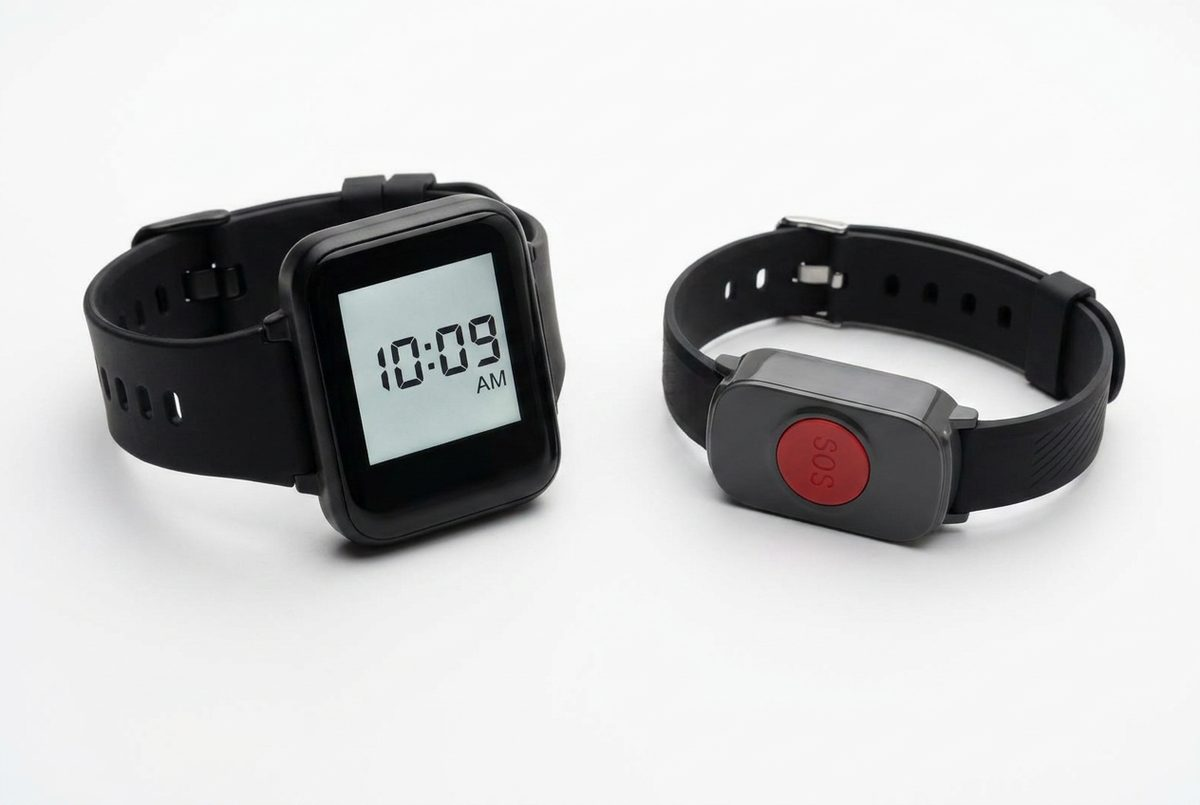
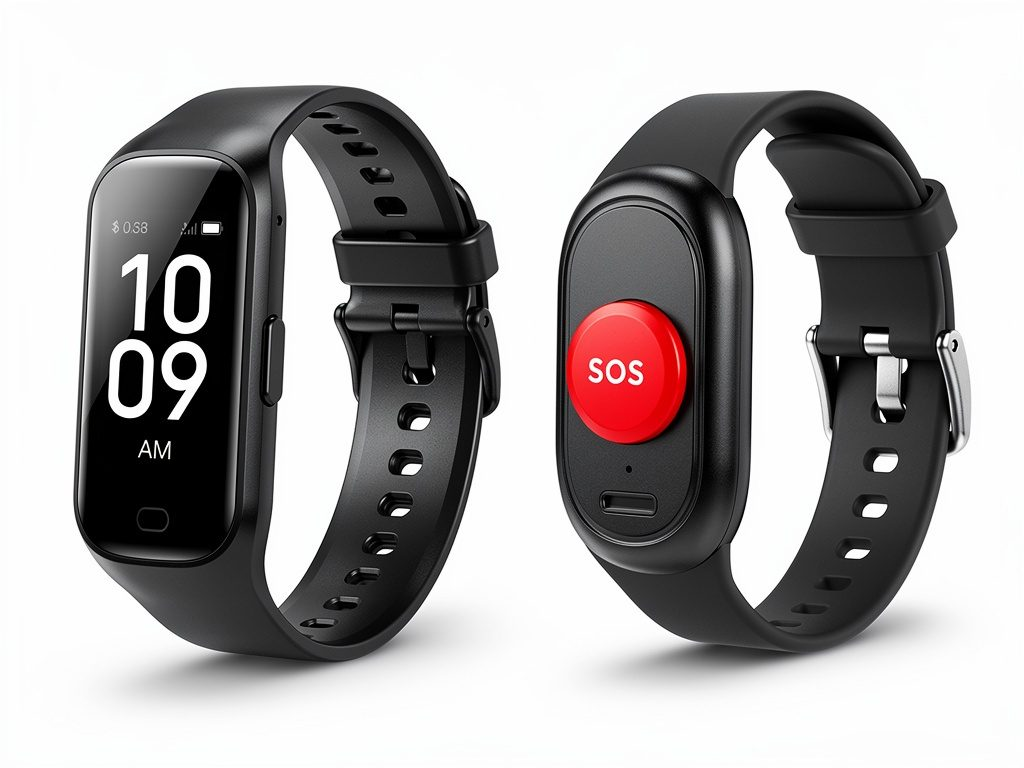
fix(landing+blog): email ecura, foto confronto, IVA 4% e contributo INPS
- Sostituita [email redacted] con [email redacted] in landing page e tutti i blog (14 file)
- ecura-vs-seremy.jpg: schermo SiDLY ora verticale/stretto (portrait) come da dispositivo reale
- Nota IVA sotto prezzi: aggiunto box agevolazioni con spiegazione IVA 4% dispositivo medico,
  detrazione 19% TUIR, e contributo INPS (disabili 100%, legge 104, ISEE <6.000€,
  verbale disabilità grave, previa approvazione INPS)
- FAQ detraibilità aggiornata con tutte e tre le agevolazioni

diff --git a/public/index.html b/public/index.html
@@ -134,7 +134,7 @@
         {
           "@type": "ContactPoint",
           "telephone": "[phone redacted]",
-          "email": "[email redacted]",
+          "email": "[email redacted]",
           "contactType": "customer service",
           "availableLanguage": "Italian",
           "hoursAvailable": {
@@ -404,7 +404,7 @@
           "name": "Il bracciale eCura è detraibile fiscalmente?",
           "acceptedAnswer": {
             "@type": "Answer",
-            "text": "Sì. Essendo un dispositivo medico certificato Classe IIA ai sensi del Regolamento MDR 2017/745, è detraibile al 19% come spesa sanitaria (art. 15 comma 1 lett. c) TUIR). Sono disponibili anche rimborsi INPS per le famiglie con requisiti di reddito."
+            "text": "Sì. Essendo un dispositivo medico certificato Classe IIA (MDR 2017/745), eCura beneficia di tre agevolazioni: (1) IVA al 4% invece del 22%, applicabile perché è un dispositivo medico certificato (DPR 633/72, Tabella A, Parte II, n. 30); (2) detrazione IRPEF al 19% come spesa sanitaria (art. 15, comma 1, lett. c del TUIR); (3) contributo INPS per disabili con invalidità 100%, riconoscimento Legge 104, ISEE inferiore a €6.000 e verbale di disabilità grave, previa approvazione INPS e disponibilità del fondo."
           }
         },
         {
@@ -1178,6 +1178,19 @@
                                         <small>Tutti gli importi sono al netto dell'IVA 22% o 4% (per disabili 100% con legge 104)</small>
                                     </div>
                                 </div>
+                                <div class="row mt-3">
+                                    <div class="col-md-10 mx-auto">
+                                        <div class="p-3 rounded" style="background:rgba(6,141,134,0.10);border:1px solid rgba(6,141,134,0.3);font-size:.88rem;">
+                                            <p class="mb-2"><strong>💡 Agevolazioni fiscali disponibili</strong></p>
+                                            <ul class="mb-2" style="padding-left:1.2rem">
+                                                <li><strong>IVA ridotta al 4%</strong> — possibile perché eCura è un <strong>dispositivo medico certificato Classe IIA</strong> (MDR 2017/745). I dispositivi medici beneficiano dell'aliquota IVA agevolata al 4% ai sensi della Tabella A, Parte II, n. 30 del DPR 633/72.</li>
+                                                <li><strong>Detrazione IRPEF al 19%</strong> — come spesa sanitaria (art. 15, comma 1, lett. c del TUIR).</li>
+                                                <li><strong>Contributo INPS</strong> — per disabili 100% con riconoscimento Legge 104, ISEE inferiore a €6.000 e verbale di disabilità grave. Il contributo è soggetto ad approvazione INPS e disponibilità del fondo.</li>
+                                            </ul>
+                                            <p class="mb-0 text-muted" style="font-size:.82rem;">Per informazioni sulle agevolazioni applicabili alla tua situazione, contattaci: <a href="mailto:[email redacted]">[email redacted]</a></p>
+                                        </div>
+                                    </div>
+                                </div>
                                 <div class="row">
                                     <div class="col-md-12 d-flex justify-content-center">
                                         <div class="theanswer mb-5 mt-5">
@@ -1283,7 +1296,7 @@
                         </h3>
                         <div id="faq6" class="accordion-collapse collapse" data-bs-parent="#faqAccordion" itemscope itemprop="acceptedAnswer" itemtype="https://schema.org/Answer">
                             <div class="accordion-body" itemprop="text">
-                                Sì. Essendo un dispositivo medico certificato Classe IIA (MDR 2017/745), eCura è detraibile al 19% come spesa sanitaria (art. 15, comma 1, lett. c del TUIR). Sono disponibili anche rimborsi INPS per famiglie con requisiti di reddito.
+                                Sì. Essendo un dispositivo medico certificato Classe IIA (MDR 2017/745), eCura beneficia di tre agevolazioni: (1) <strong>IVA al 4%</strong> invece del 22%, applicabile proprio perché è un dispositivo medico certificato (DPR 633/72, Tabella A, Parte II, n. 30); (2) <strong>detrazione IRPEF al 19%</strong> come spesa sanitaria (art. 15, comma 1, lett. c del TUIR); (3) <strong>contributo INPS</strong> per disabili con invalidità 100%, riconoscimento Legge 104, ISEE inferiore a €6.000 e verbale di disabilità grave, previa approvazione INPS e disponibilità del fondo.
                             </div>
                         </div>
                     </div>
@@ -1579,7 +1592,7 @@
           </div>
           <div class="col-md-3">
               <div><img src="img/phone.svg" alt="" class="me-2" width="20" height="20" loading="lazy" aria-hidden="true"><a href="tel:[phone redacted]">[phone redacted]</a></div>
-              <div><img src="img/at-sign.svg" alt="" class="me-2" width="20" height="20" loading="lazy" aria-hidden="true"><a href="mailto:[email redacted]">[email redacted]</a></div>
+              <div><img src="img/at-sign.svg" alt="" class="me-2" width="20" height="20" loading="lazy" aria-hidden="true"><a href="mailto:[email redacted]">[email redacted]</a></div>
           </div>
           <div class="col-md-3 text-center">
              <a href="https://www.facebook.com/profile.php?id=61585121784918" target="_blank" rel="noopener noreferrer" class="me-3" aria-label="Pagina Facebook di eCura bracciale teleassistenza anziani">

diff --git a/public/blog/anziano-solo-casa-soluzioni-sicurezza/index.html b/public/blog/anziano-solo-casa-soluzioni-sicurezza/index.html
@@ -133,7 +133,7 @@
       </div>
       <div class="col-md-4">
         <h4 style="font-size:.95rem;color:#fff;margin-bottom:12px">Contatti</h4>
-        <p style="font-size:.85rem;color:rgba(255,255,255,.7)">Medica GB Srl<br>Corso Giuseppe Garibaldi 34<br>20121 Milano<br><a href="tel:[phone redacted]" style="color:#068D86">[phone redacted]</a><br><a href="mailto:[email redacted]" style="color:#068D86">[email redacted]</a></p>
+        <p style="font-size:.85rem;color:rgba(255,255,255,.7)">Medica GB Srl<br>Corso Giuseppe Garibaldi 34<br>20121 Milano<br><a href="tel:[phone redacted]" style="color:#068D86">[phone redacted]</a><br><a href="mailto:[email redacted]" style="color:#068D86">[email redacted]</a></p>
       </div>
     </div>
     <hr style="border-color:rgba(255,255,255,.15);margin:28px 0 16px">

diff --git a/public/blog/badante-vs-teleassistenza-costi-2026/index.html b/public/blog/badante-vs-teleassistenza-costi-2026/index.html
@@ -144,7 +144,7 @@
       </div>
       <div class="col-md-4">
         <h4 style="font-size:.95rem;color:#fff;margin-bottom:12px">Contatti</h4>
-        <p style="font-size:.85rem;color:rgba(255,255,255,.7)">Medica GB Srl<br>Corso Giuseppe Garibaldi 34<br>20121 Milano<br><a href="tel:[phone redacted]" style="color:#068D86">[phone redacted]</a><br><a href="mailto:[email redacted]" style="color:#068D86">[email redacted]</a></p>
+        <p style="font-size:.85rem;color:rgba(255,255,255,.7)">Medica GB Srl<br>Corso Giuseppe Garibaldi 34<br>20121 Milano<br><a href="tel:[phone redacted]" style="color:#068D86">[phone redacted]</a><br><a href="mailto:[email redacted]" style="color:#068D86">[email redacted]</a></p>
       </div>
     </div>
     <hr style="border-color:rgba(255,255,255,.15);margin:28px 0 16px">

diff --git a/public/blog/bracciale-anziani-detraibile-19-percento/index.html b/public/blog/bracciale-anziani-detraibile-19-percento/index.html
@@ -197,7 +197,7 @@
       </div>
       <div class="col-md-4">
         <h4 style="font-size:.95rem;color:#fff;margin-bottom:12px">Contatti</h4>
-        <p style="font-size:.85rem;color:rgba(255,255,255,.7)">Medica GB Srl<br>Corso Giuseppe Garibaldi 34<br>20121 Milano<br><a href="tel:[phone redacted]" style="color:#068D86">[phone redacted]</a><br><a href="mailto:[email redacted]" style="color:#068D86">[email redacted]</a></p>
+        <p style="font-size:.85rem;color:rgba(255,255,255,.7)">Medica GB Srl<br>Corso Giuseppe Garibaldi 34<br>20121 Milano<br><a href="tel:[phone redacted]" style="color:#068D86">[phone redacted]</a><br><a href="mailto:[email redacted]" style="color:#068D86">[email redacted]</a></p>
       </div>
     </div>
     <hr style="border-color:rgba(255,255,255,.15);margin:28px 0 16px">

diff --git a/public/blog/cadute-casa-anziani-statistiche-prevenzione/index.html b/public/blog/cadute-casa-anziani-statistiche-prevenzione/index.html
@@ -136,7 +136,7 @@
       </div>
       <div class="col-md-4">
         <h4 style="font-size:.95rem;color:#fff;margin-bottom:12px">Contatti</h4>
-        <p style="font-size:.85rem;color:rgba(255,255,255,.7)">Medica GB Srl<br>Corso Giuseppe Garibaldi 34<br>20121 Milano<br><a href="tel:[phone redacted]" style="color:#068D86">[phone redacted]</a><br><a href="mailto:[email redacted]" style="color:#068D86">[email redacted]</a></p>
+        <p style="font-size:.85rem;color:rgba(255,255,255,.7)">Medica GB Srl<br>Corso Giuseppe Garibaldi 34<br>20121 Milano<br><a href="tel:[phone redacted]" style="color:#068D86">[phone redacted]</a><br><a href="mailto:[email redacted]" style="color:#068D86">[email redacted]</a></p>
       </div>
     </div>
     <hr style="border-color:rgba(255,255,255,.15);margin:28px 0 16px">

diff --git a/public/blog/centrale-operativa-h24-teleassistenza/index.html b/public/blog/centrale-operativa-h24-teleassistenza/index.html
@@ -136,7 +136,7 @@
       </div>
       <div class="col-md-4">
         <h4 style="font-size:.95rem;color:#fff;margin-bottom:12px">Contatti</h4>
-        <p style="font-size:.85rem;color:rgba(255,255,255,.7)">Medica GB Srl<br>Corso Giuseppe Garibaldi 34<br>20121 Milano<br><a href="tel:[phone redacted]" style="color:#068D86">[phone redacted]</a><br><a href="mailto:[email redacted]" style="color:#068D86">[email redacted]</a></p>
+        <p style="font-size:.85rem;color:rgba(255,255,255,.7)">Medica GB Srl<br>Corso Giuseppe Garibaldi 34<br>20121 Milano<br><a href="tel:[phone redacted]" style="color:#068D86">[phone redacted]</a><br><a href="mailto:[email redacted]" style="color:#068D86">[email redacted]</a></p>
       </div>
     </div>
     <hr style="border-color:rgba(255,255,255,.15);margin:28px 0 16px">

diff --git a/public/blog/dispositivo-medico-classe-iia-anziani/index.html b/public/blog/dispositivo-medico-classe-iia-anziani/index.html
@@ -165,7 +165,7 @@
       </div>
       <div class="col-md-4">
         <h4 style="font-size:.95rem;color:#fff;margin-bottom:12px">Contatti</h4>
-        <p style="font-size:.85rem;color:rgba(255,255,255,.7)">Medica GB Srl<br>Corso Giuseppe Garibaldi 34<br>20121 Milano<br><a href="tel:[phone redacted]" style="color:#068D86">[phone redacted]</a><br><a href="mailto:[email redacted]" style="color:#068D86">[email redacted]</a></p>
+        <p style="font-size:.85rem;color:rgba(255,255,255,.7)">Medica GB Srl<br>Corso Giuseppe Garibaldi 34<br>20121 Milano<br><a href="tel:[phone redacted]" style="color:#068D86">[phone redacted]</a><br><a href="mailto:[email redacted]" style="color:#068D86">[email redacted]</a></p>
       </div>
     </div>
     <hr style="border-color:rgba(255,255,255,.15);margin:28px 0 16px">

diff --git a/public/blog/ecura-vs-seremy-confronto-2026/index.html b/public/blog/ecura-vs-seremy-confronto-2026/index.html
@@ -160,7 +160,7 @@
       </div>
       <div class="col-md-4">
         <h4 style="font-size:.95rem;color:#fff;margin-bottom:12px">Contatti</h4>
-        <p style="font-size:.85rem;color:rgba(255,255,255,.7)">Medica GB Srl<br>Corso Giuseppe Garibaldi 34<br>20121 Milano<br><a href="tel:[phone redacted]" style="color:#068D86">[phone redacted]</a><br><a href="mailto:[email redacted]" style="color:#068D86">[email redacted]</a></p>
+        <p style="font-size:.85rem;color:rgba(255,255,255,.7)">Medica GB Srl<br>Corso Giuseppe Garibaldi 34<br>20121 Milano<br><a href="tel:[phone redacted]" style="color:#068D86">[phone redacted]</a><br><a href="mailto:[email redacted]" style="color:#068D86">[email redacted]</a></p>
       </div>
     </div>
     <hr style="border-color:rgba(255,255,255,.15);margin:28px 0 16px">

diff --git a/public/blog/gps-anziani-indoor-come-funziona/index.html b/public/blog/gps-anziani-indoor-come-funziona/index.html
@@ -136,7 +136,7 @@
       </div>
       <div class="col-md-4">
         <h4 style="font-size:.95rem;color:#fff;margin-bottom:12px">Contatti</h4>
-        <p style="font-size:.85rem;color:rgba(255,255,255,.7)">Medica GB Srl<br>Corso Giuseppe Garibaldi 34<br>20121 Milano<br><a href="tel:[phone redacted]" style="color:#068D86">[phone redacted]</a><br><a href="mailto:[email redacted]" style="color:#068D86">[email redacted]</a></p>
+        <p style="font-size:.85rem;color:rgba(255,255,255,.7)">Medica GB Srl<br>Corso Giuseppe Garibaldi 34<br>20121 Milano<br><a href="tel:[phone redacted]" style="color:#068D86">[phone redacted]</a><br><a href="mailto:[email redacted]" style="color:#068D86">[email redacted]</a></p>
       </div>
     </div>
     <hr style="border-color:rgba(255,255,255,.15);margin:28px 0 16px">

diff --git a/public/blog/guida-bracciale-cadute-anziani-2026/index.html b/public/blog/guida-bracciale-cadute-anziani-2026/index.html
@@ -205,7 +205,7 @@
       </div>
       <div class="col-md-4">
         <h4 style="font-size:.95rem;color:#fff;margin-bottom:12px">Contatti</h4>
-        <p style="font-size:.85rem;color:rgba(255,255,255,.7)">Medica GB Srl<br>Corso Giuseppe Garibaldi 34<br>20121 Milano<br><a href="tel:[phone redacted]" style="color:#068D86">[phone redacted]</a><br><a href="mailto:[email redacted]" style="color:#068D86">[email redacted]</a></p>
+        <p style="font-size:.85rem;color:rgba(255,255,255,.7)">Medica GB Srl<br>Corso Giuseppe Garibaldi 34<br>20121 Milano<br><a href="tel:[phone redacted]" style="color:#068D86">[phone redacted]</a><br><a href="mailto:[email redacted]" style="color:#068D86">[email redacted]</a></p>
       </div>
     </div>
     <hr style="border-color:rgba(255,255,255,.15);margin:28px 0 16px">

diff --git a/public/blog/index.html b/public/blog/index.html
@@ -109,7 +109,7 @@
       </div>
       <div class="col-md-4">
         <h4 style="font-size:.95rem;color:#fff;margin-bottom:12px">Contatti</h4>
-        <p style="font-size:.85rem;color:rgba(255,255,255,.7)">Medica GB Srl<br>Corso Giuseppe Garibaldi 34<br>20121 Milano<br><a href="tel:[phone redacted]" style="color:#068D86">[phone redacted]</a><br><a href="mailto:[email redacted]" style="color:#068D86">[email redacted]</a></p>
+        <p style="font-size:.85rem;color:rgba(255,255,255,.7)">Medica GB Srl<br>Corso Giuseppe Garibaldi 34<br>20121 Milano<br><a href="tel:[phone redacted]" style="color:#068D86">[phone redacted]</a><br><a href="mailto:[email redacted]" style="color:#068D86">[email redacted]</a></p>
       </div>
     </div>
     <hr style="border-color:rgba(255,255,255,.15);margin:28px 0 16px">

diff --git a/public/blog/prevenzione-cadute-anziani-10-consigli/index.html b/public/blog/prevenzione-cadute-anziani-10-consigli/index.html
@@ -130,7 +130,7 @@
       </div>
       <div class="col-md-4">
         <h4 style="font-size:.95rem;color:#fff;margin-bottom:12px">Contatti</h4>
-        <p style="font-size:.85rem;color:rgba(255,255,255,.7)">Medica GB Srl<br>Corso Giuseppe Garibaldi 34<br>20121 Milano<br><a href="tel:[phone redacted]" style="color:#068D86">[phone redacted]</a><br><a href="mailto:[email redacted]" style="color:#068D86">[email redacted]</a></p>
+        <p style="font-size:.85rem;color:rgba(255,255,255,.7)">Medica GB Srl<br>Corso Giuseppe Garibaldi 34<br>20121 Milano<br><a href="tel:[phone redacted]" style="color:#068D86">[phone redacted]</a><br><a href="mailto:[email redacted]" style="color:#068D86">[email redacted]</a></p>
       </div>
     </div>
     <hr style="border-color:rgba(255,255,255,.15);margin:28px 0 16px">